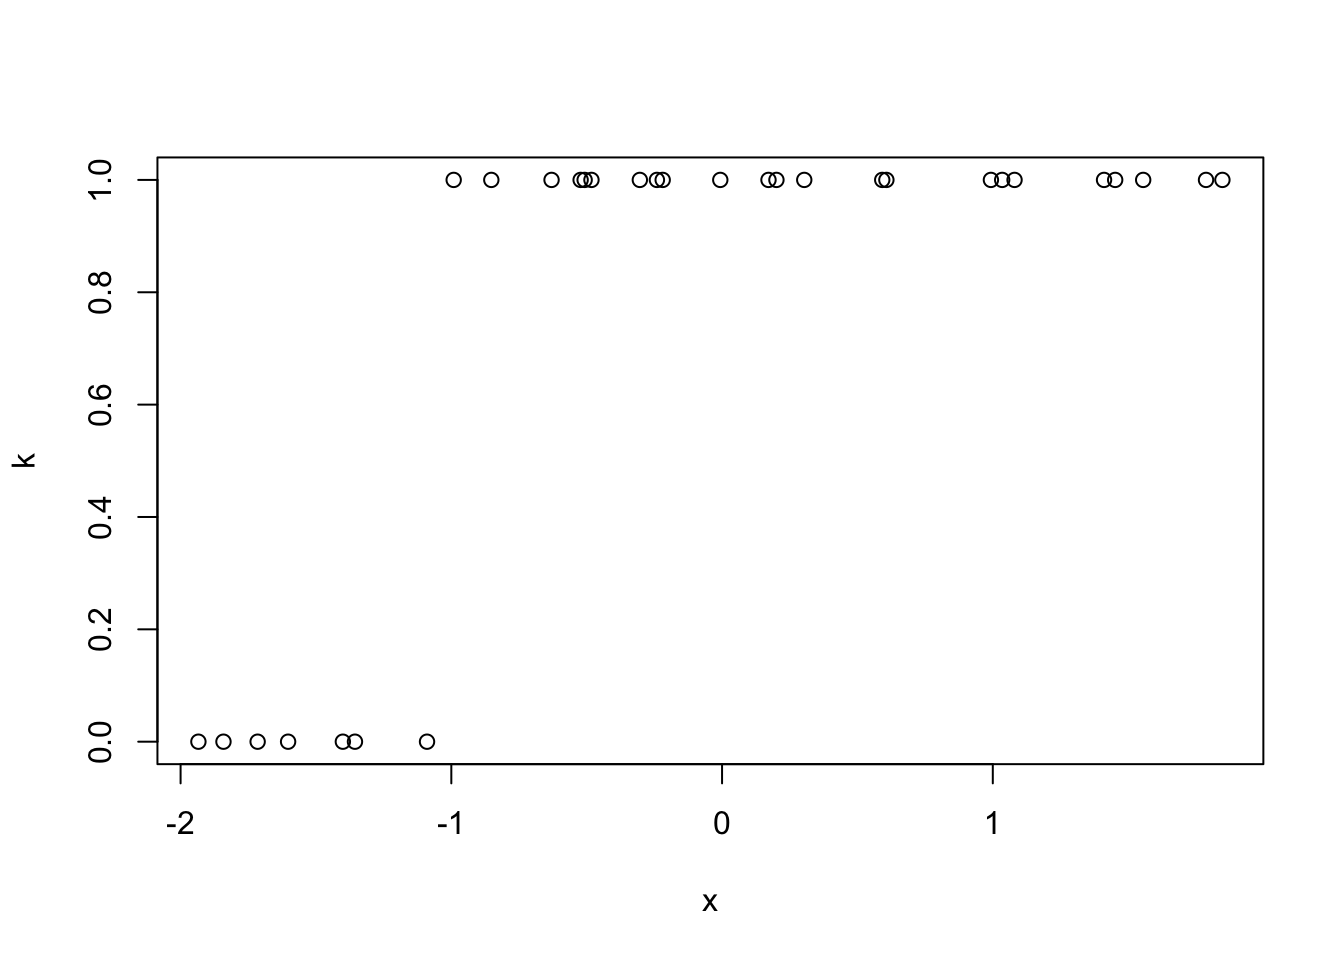
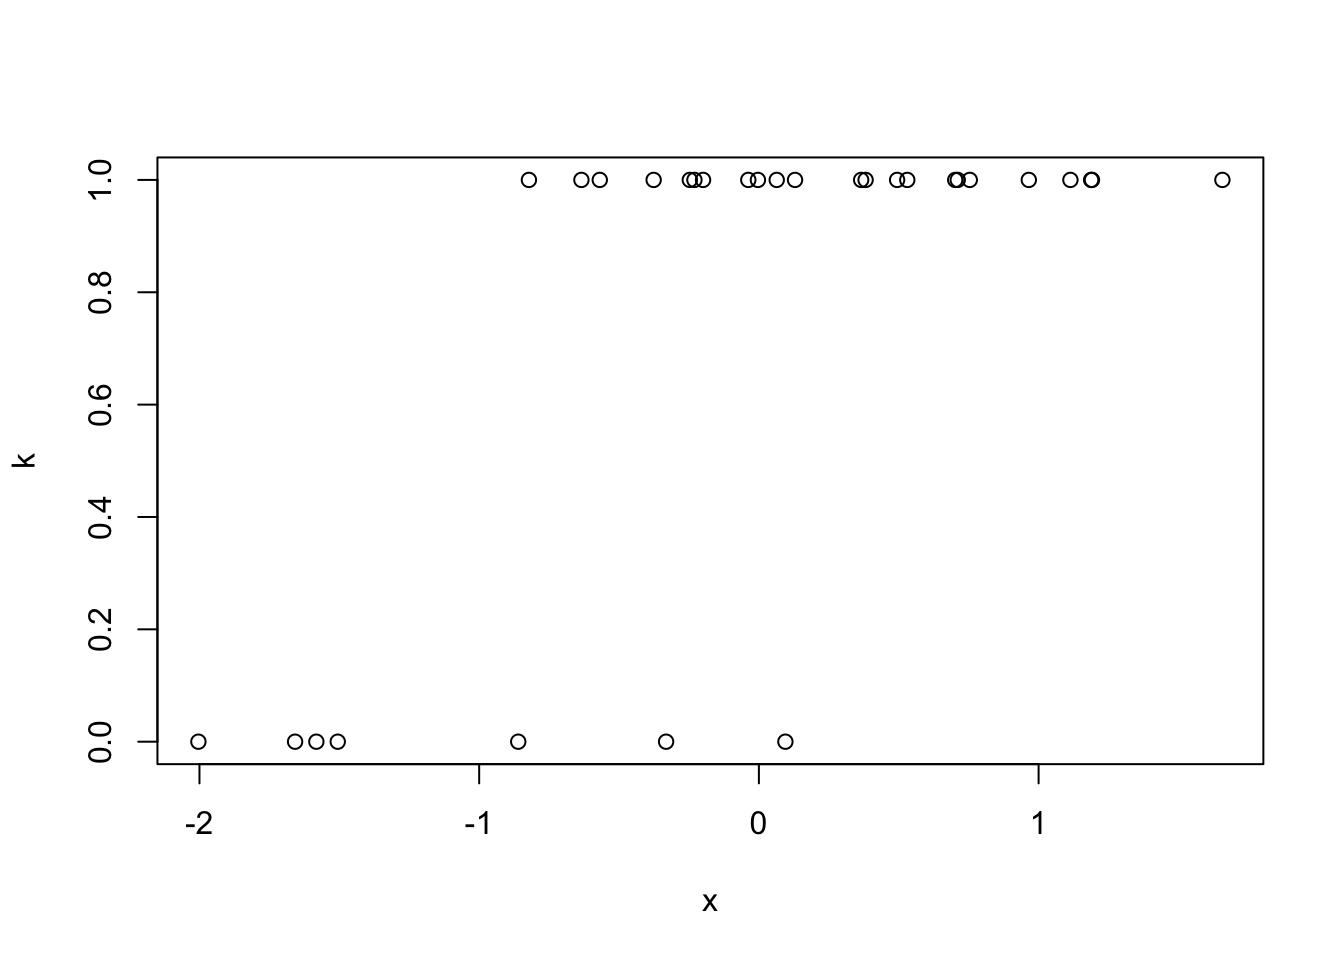
broken link
fixed broken link

diff --git a/docs/bootcamp-r-series-010-intro-to-r-pt1.html b/docs/bootcamp-r-series-010-intro-to-r-pt1.html
@@ -928,24 +928,24 @@ integer (most of the time).</p>
 <pre class="r"><code># most often used for categorical observations
 pets &lt;- c(&quot;cat&quot;, &quot;dog&quot;, &quot;lizard&quot;, &quot;raccoon&quot;)
 (pet_obs &lt;- sample(pets, 20, TRUE))</code></pre>
-<pre><code>##  [1] &quot;raccoon&quot; &quot;cat&quot;     &quot;lizard&quot;  &quot;cat&quot;     &quot;cat&quot;     &quot;raccoon&quot; &quot;raccoon&quot;
-##  [8] &quot;lizard&quot;  &quot;raccoon&quot; &quot;dog&quot;     &quot;dog&quot;     &quot;dog&quot;     &quot;dog&quot;     &quot;cat&quot;    
-## [15] &quot;dog&quot;     &quot;lizard&quot;  &quot;raccoon&quot; &quot;dog&quot;     &quot;dog&quot;     &quot;lizard&quot;</code></pre>
+<pre><code>##  [1] &quot;raccoon&quot; &quot;dog&quot;     &quot;raccoon&quot; &quot;raccoon&quot; &quot;dog&quot;     &quot;cat&quot;     &quot;lizard&quot; 
+##  [8] &quot;dog&quot;     &quot;lizard&quot;  &quot;dog&quot;     &quot;raccoon&quot; &quot;cat&quot;     &quot;raccoon&quot; &quot;dog&quot;    
+## [15] &quot;cat&quot;     &quot;dog&quot;     &quot;cat&quot;     &quot;cat&quot;     &quot;dog&quot;     &quot;raccoon&quot;</code></pre>
 <pre class="r"><code># Turn the character vector into a set of factors
 pet_fct &lt;- factor(pet_obs)
 pet_fct</code></pre>
-<pre><code>##  [1] raccoon cat     lizard  cat     cat     raccoon raccoon lizard  raccoon
-## [10] dog     dog     dog     dog     cat     dog     lizard  raccoon dog    
-## [19] dog     lizard 
+<pre><code>##  [1] raccoon dog     raccoon raccoon dog     cat     lizard  dog     lizard 
+## [10] dog     raccoon cat     raccoon dog     cat     dog     cat     cat    
+## [19] dog     raccoon
 ## Levels: cat dog lizard raccoon</code></pre>
 <pre class="r"><code># can be converted to an integer vector
 as.integer(pet_fct)</code></pre>
-<pre><code>##  [1] 4 1 3 1 1 4 4 3 4 2 2 2 2 1 2 3 4 2 2 3</code></pre>
+<pre><code>##  [1] 4 2 4 4 2 1 3 2 3 2 4 1 4 2 1 2 1 1 2 4</code></pre>
 <pre class="r"><code># can be converted to a character vector
 as.character(pet_fct)</code></pre>
-<pre><code>##  [1] &quot;raccoon&quot; &quot;cat&quot;     &quot;lizard&quot;  &quot;cat&quot;     &quot;cat&quot;     &quot;raccoon&quot; &quot;raccoon&quot;
-##  [8] &quot;lizard&quot;  &quot;raccoon&quot; &quot;dog&quot;     &quot;dog&quot;     &quot;dog&quot;     &quot;dog&quot;     &quot;cat&quot;    
-## [15] &quot;dog&quot;     &quot;lizard&quot;  &quot;raccoon&quot; &quot;dog&quot;     &quot;dog&quot;     &quot;lizard&quot;</code></pre>
+<pre><code>##  [1] &quot;raccoon&quot; &quot;dog&quot;     &quot;raccoon&quot; &quot;raccoon&quot; &quot;dog&quot;     &quot;cat&quot;     &quot;lizard&quot; 
+##  [8] &quot;dog&quot;     &quot;lizard&quot;  &quot;dog&quot;     &quot;raccoon&quot; &quot;cat&quot;     &quot;raccoon&quot; &quot;dog&quot;    
+## [15] &quot;cat&quot;     &quot;dog&quot;     &quot;cat&quot;     &quot;cat&quot;     &quot;dog&quot;     &quot;raccoon&quot;</code></pre>
 </div>
 <div id="overview-of-objects-and-data-structures"
 class="section level2">
@@ -1366,15 +1366,15 @@ lm(y ~ x) # slope-intercept model. Same as `lm(y ~ 1 + x)`</code></pre>
 ## 
 ## Coefficients:
 ## (Intercept)            x  
-##       2.021        3.062</code></pre>
+##       1.966        2.932</code></pre>
 <pre class="r"><code>lm(y ~ 0 + x) # slope only model (no intercept)</code></pre>
 <pre><code>## 
 ## Call:
 ## lm(formula = y ~ 0 + x)
 ## 
 ## Coefficients:
-##    x  
-## 2.92</code></pre>
+##     x  
+## 2.874</code></pre>
 <p>Can also fit a generalized linear model using (you guessed it) the
 <code>glm()</code> function.</p>
 <pre class="r"><code># logit(theta) = 3x + 2
@@ -1383,18 +1383,16 @@ plot(k ~ x)</code></pre>
 <p><img src="bootcamp-r-series-010-intro-to-r-pt1_files/figure-html/010-cheap-jelly-1.png" width="672" /></p>
 <pre class="r"><code># fit a generalized linear model with logit link
 glm(k ~ 1 + x, family = binomial(link = &quot;logit&quot;))</code></pre>
-<pre><code>## Warning: glm.fit: algorithm did not converge</code></pre>
-<pre><code>## Warning: glm.fit: fitted probabilities numerically 0 or 1 occurred</code></pre>
 <pre><code>## 
 ## Call:  glm(formula = k ~ 1 + x, family = binomial(link = &quot;logit&quot;))
 ## 
 ## Coefficients:
 ## (Intercept)            x  
-##       398.3        382.9  
+##       2.355        3.023  
 ## 
 ## Degrees of Freedom: 29 Total (i.e. Null);  28 Residual
 ## Null Deviance:       32.6 
-## Residual Deviance: 2.598e-08     AIC: 4</code></pre>
+## Residual Deviance: 16.18     AIC: 20.18</code></pre>
 </div>
 <div id="summarizing-data-frames-and-models" class="section level2">
 <h2>Summarizing data frames and models</h2>
@@ -1404,17 +1402,17 @@ models, and it is the <code>summary()</code> function.</p>
 z &lt;- rnorm(50)
 summary(z)</code></pre>
 <pre><code>##    Min. 1st Qu.  Median    Mean 3rd Qu.    Max. 
-## -2.1069 -0.5651  0.0361  0.1213  0.7819  2.1952</code></pre>
+## -1.7331 -0.1830  0.2425  0.3464  0.7896  3.2201</code></pre>
 <pre class="r"><code># summarize a data frame
 df &lt;- data.frame(a = 1L:10L, b = rexp(10), c = factor(sample(c(&quot;a&quot;, &quot;b&quot;, &quot;c&quot;), 10, TRUE)))
 summary(df)</code></pre>
-<pre><code>##        a               b           c    
-##  Min.   : 1.00   Min.   :0.05442   a:4  
-##  1st Qu.: 3.25   1st Qu.:0.30991   b:3  
-##  Median : 5.50   Median :1.05470   c:3  
-##  Mean   : 5.50   Mean   :0.93787        
-##  3rd Qu.: 7.75   3rd Qu.:1.23056        
-##  Max.   :10.00   Max.   :2.10948</code></pre>
+<pre><code>##        a               b          c    
+##  Min.   : 1.00   Min.   :0.1631   a:3  
+##  1st Qu.: 3.25   1st Qu.:0.6246   b:4  
+##  Median : 5.50   Median :1.2495   c:3  
+##  Mean   : 5.50   Mean   :1.0599        
+##  3rd Qu.: 7.75   3rd Qu.:1.4518        
+##  Max.   :10.00   Max.   :1.7820</code></pre>
 <pre class="r"><code># summarize a linear model
 fit &lt;- lm(y ~ 1 + x)
 summary(fit)</code></pre>
@@ -1423,19 +1421,19 @@ summary(fit)</code></pre>
 ## lm(formula = y ~ 1 + x)
 ## 
 ## Residuals:
-##      Min       1Q   Median       3Q      Max 
-## -0.94345 -0.23418  0.04674  0.24745  0.98328 
+##     Min      1Q  Median      3Q     Max 
+## -1.0794 -0.3957  0.1210  0.2763  0.8479 
 ## 
 ## Coefficients:
 ##             Estimate Std. Error t value Pr(&gt;|t|)    
-## (Intercept)  2.02096    0.08066   25.06   &lt;2e-16 ***
-## x            3.06170    0.07173   42.68   &lt;2e-16 ***
+## (Intercept)  1.96642    0.09085   21.64   &lt;2e-16 ***
+## x            2.93238    0.10109   29.01   &lt;2e-16 ***
 ## ---
 ## Signif. codes:  0 &#39;***&#39; 0.001 &#39;**&#39; 0.01 &#39;*&#39; 0.05 &#39;.&#39; 0.1 &#39; &#39; 1
 ## 
-## Residual standard error: 0.4404 on 28 degrees of freedom
-## Multiple R-squared:  0.9849, Adjusted R-squared:  0.9843 
-## F-statistic:  1822 on 1 and 28 DF,  p-value: &lt; 2.2e-16</code></pre>
+## Residual standard error: 0.4974 on 28 degrees of freedom
+## Multiple R-squared:  0.9678, Adjusted R-squared:  0.9666 
+## F-statistic: 841.5 on 1 and 28 DF,  p-value: &lt; 2.2e-16</code></pre>
 <p>Notice that it outputs differently for different input objects. This
 is because <code>summary()</code> is a <em>generic</em> function,
 meaning that it has multiple <em>methods</em> defined for different R

diff --git a/docs/bootcamp-r-series-040-tidy.html b/docs/bootcamp-r-series-040-tidy.html
@@ -1960,29 +1960,29 @@ replication</li>
 # notice you do not need the () after the function as you would if executing from consol
 map(df, mean)</code></pre>
 <pre><code>## $a
-## [1] -0.03214262
+## [1] 0.32953
 ## 
 ## $b
-## [1] -0.4758772
+## [1] -0.2410352
 ## 
 ## $c
-## [1] 0.08944687
+## [1] 0.6546003
 ## 
 ## $d
-## [1] -0.8184972</code></pre>
+## [1] 0.08095373</code></pre>
 <pre class="r"><code># can pipe it an input to make the process even easier
 df %&gt;% map(mean)</code></pre>
 <pre><code>## $a
-## [1] -0.03214262
+## [1] 0.32953
 ## 
 ## $b
-## [1] -0.4758772
+## [1] -0.2410352
 ## 
 ## $c
-## [1] 0.08944687
+## [1] 0.6546003
 ## 
 ## $d
-## [1] -0.8184972</code></pre>
+## [1] 0.08095373</code></pre>
 <p>You may have noticed that the output format is not necessarily in the
 format that we might expect. The <code>map()</code> function always
 outputs a list.</p>
@@ -1993,7 +1993,7 @@ vector of the indicated type (or die trying).</p>
 <pre class="r"><code># Should return a numerical vector rather than a list
 map_dbl(df, mean)</code></pre>
 <pre><code>##           a           b           c           d 
-## -0.03214262 -0.47587716  0.08944687 -0.81849723</code></pre>
+##  0.32953001 -0.24103522  0.65460026  0.08095373</code></pre>
 </div>
 </div>
 

diff --git a/docs/NSC_IntrotoR.html b/docs/NSC_IntrotoR.html
@@ -1114,7 +1114,7 @@ lm(y ~ x) # slope-intercept model. Same as `lm(y ~ 1 + x)`</code></pre>
 ## 
 ## Coefficients:
 ## (Intercept)            x  
-##       1.882        2.876</code></pre>
+##       1.968        2.867</code></pre>
 <pre class="r"><code>lm(y ~ 0 + x) # slope only model (no intercept)</code></pre>
 <pre><code>## 
 ## Call:
@@ -1122,7 +1122,7 @@ lm(y ~ x) # slope-intercept model. Same as `lm(y ~ 1 + x)`</code></pre>
 ## 
 ## Coefficients:
 ##     x  
-## 2.936</code></pre>
+## 3.239</code></pre>
 <div id="practice-time" class="section level3">
 <h3>Practice time!</h3>
 <p>Write a script that creates a linear model relating mpg and cyl of

diff --git a/docs/NSU_ResearchDay_2025-03.html b/docs/NSU_ResearchDay_2025-03.html
@@ -404,7 +404,7 @@ workshop individually through the provided registration link.</p>
 will remain open until slots are filled.</p>
 <div style="text-align: center">
 <span
-style="font-size: 16pt;"><a href="https://nvideaoffice.formstack.com/forms/nsc_researchday"><strong>Click
+style="font-size: 16pt;"><a href="https://nvideaoffice.formstack.com/forms/nsu_training"><strong>Click
 HERE to register</strong></a> </span>
 </div>
 <p><br></p>

diff --git a/docs/bootcamp-r-series-020-intro-to-r-pt2.html b/docs/bootcamp-r-series-020-intro-to-r-pt2.html
@@ -589,7 +589,7 @@ switch (stat,
   round = round(x, 2),
   &quot;Default option: no match found&quot;
 )</code></pre>
-<pre><code>## [1] 3.247464</code></pre>
+<pre><code>## [1] 3.118914</code></pre>
 </div>
 </div>
 <div id="the--apply-family-of-functions" class="section level2">
